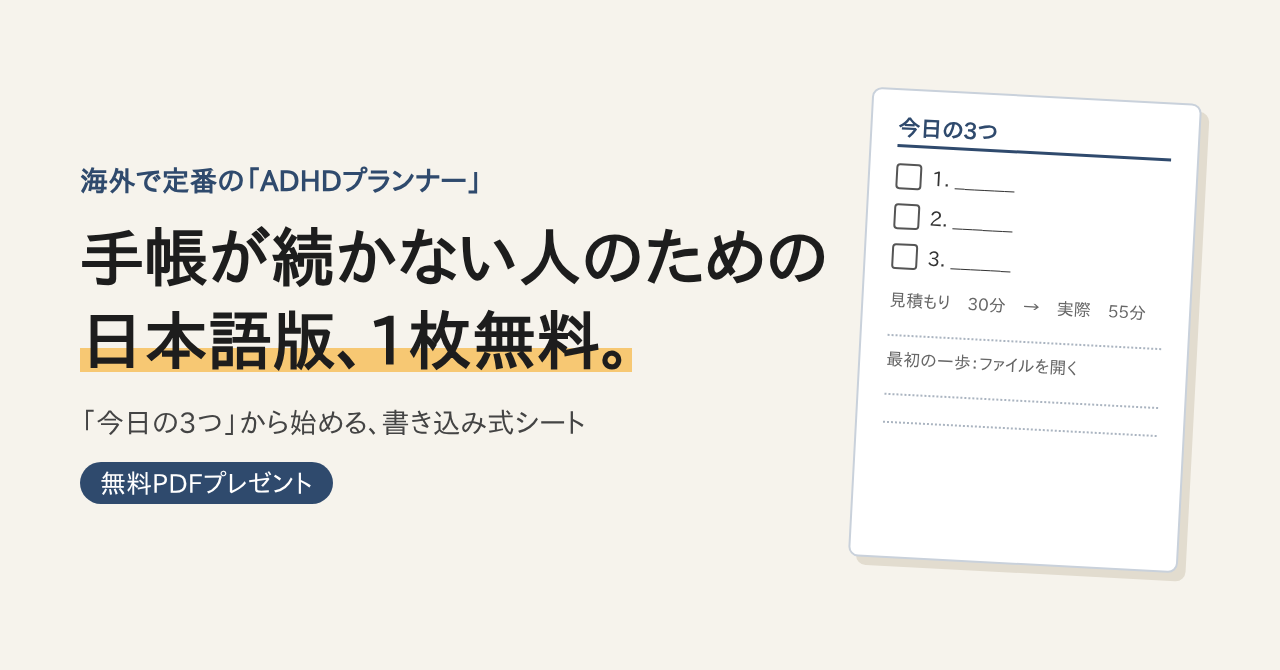
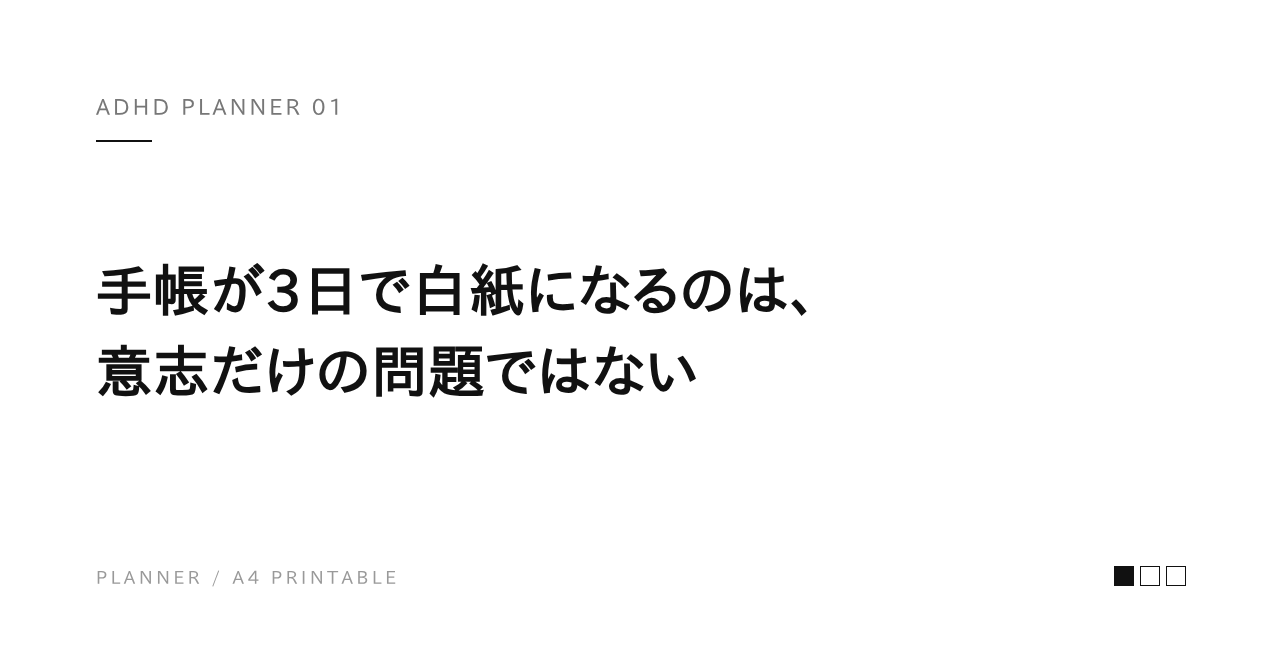
Rewrite ADHD planner articles in natural voice and simplify header images
Claude-Session: https://claude.ai/code/session_013nuac3asr5XygrkyoZzcZX

diff --git a/adhd/01_free/無料記事_本文.md b/adhd/01_free/無料記事_本文.md
@@ -1,70 +1,55 @@
 # タイトル
-海外で定番の「ADHDプランナー」とは？　日本語版の「今日のページ」を1枚プレゼントします
+手帳が3日で白紙になるのは、意志だけの問題ではない｜海外の「ADHDプランナー」の仕組みと、日本語版の1ページ
 
 # ハッシュタグ
 #ADHD #大人のADHD #発達障害 #グレーゾーン #手帳 #タスク管理 #先延ばし
 
 ---
 
-「今日こそやろうと思っていたのに、気づいたら夜だった」
-「やることが多すぎて、何から手をつければいいか分からない」
-「普通の手帳を買っても、3日で白紙になる」
+新しい手帳を買った日は、少しだけ未来の自分に期待している。
 
-こんな悩みに向けて、海外では「ADHDプランナー」と呼ばれる手帳が、ひとつのジャンルとして定着しています。アメリカの個人向け通販サイト「Etsy（エッツィー）」では、印刷して使うADHDプランナーが数多く出品され、「ベストセラー」の表示が付いたものも珍しくありません。
+1日目は丁寧に書く。2日目も書く。3日目の夜に「今日は疲れたから明日まとめて」と閉じて、そのまま次に開くのは、だいたい2か月後だ。白いページを見て、買った日の自分に少し申し訳なくなる。
 
-一方、日本語で同じように使えるものは、探してもほとんど見つかりません。そこで、海外のADHDプランナーによくある仕組みを、日本の暮らしに合わせて日本語のシートにしました。この記事では、その考え方と、お試し用の1枚を無料で配布します。
+これを何度か繰り返すと、「自分は続かない人間なんだ」という結論に落ち着く。けれど、手帳が続かない理由をもう少し細かく見ると、意志の弱さとは別のところに原因があることが多い。
 
-※ADHDプランナーは、予定や作業を整理するための道具です。医療的な診断や治療の代わりにはなりません。
+## 手帳が止まる、3つの地点
 
-## 普通の手帳と何が違うのか
+ひとつめは、書くことが多すぎる地点。普通の手帳は、予定もやることもメモも、全部を書き込める作りになっている。自由度が高いぶん、毎回「何をどこに書くか」を決めなければならない。この小さな判断の積み重ねが、思った以上に重い。疲れた夜に手帳が開けないのは、書く内容ではなく、この判断のコストを払う余力が残っていないからだ。
 
-海外のADHDプランナーを見比べると、共通する工夫がいくつかあります。
+ふたつめは、予定と現実がずれた地点。朝に立てた予定は、昼にはもう崩れている。30分のつもりの作業が1時間半かかり、その後ろが全部押す。心理学では「計画錯誤」と呼ばれる現象で、人は作業にかかる時間を、過去に同じ作業をしたときより短く見積もる傾向がある。崩れた予定が書かれたページは、見るたびに小さな失敗を突きつけてくる。開かなくなるのは自然な反応だ。
 
-### 1. 頭の中を全部書き出すページがある
-「ブレインダンプ」と呼ばれるページです。気になっていることを、順番も大きさも気にせず書き出します。覚えておくための頭の負担を、紙に移すのが目的です。
+みっつめは、最初の一歩が大きすぎる地点。「部屋を片付ける」「書類を出す」と書いた時点で、頭の中ではその作業の全体が一気に立ち上がる。どこから手をつけるかが見えない作業ほど、人は後回しにする。
 
-### 2. 「今日やること」を3つに絞る
-やることリストが長すぎると、見ただけで疲れてしまいます。そこで「これができたら今日は合格」という3つだけを選びます。
+この3つは、時間の感覚がずれやすい人や、やることが多いと固まってしまう人ほど、強く効いてくる。
 
-### 3. 見積もりと実際の時間を並べて書く
-「30分で終わるはずが2時間」というズレは、誰にでも起こります。予定の横に「実際にかかった時間」を書く欄があり、自分のズレ方を知る手がかりになります。
+## 海外の「ADHDプランナー」がやっていること
 
-### 4. 最初の一歩を、とても小さく書く
-「レポートを書く」ではなく「ファイルを開く」。2分でできるくらいまで小さくした一歩を書いておくと、取りかかりのハードルが下がります。
+アメリカの個人向け通販サイト「Etsy（エッツィー）」には、「ADHDプランナー」という名前で売られている手帳のテンプレートが大量にある。印刷して使うPDFで、作り手も価格もさまざまだが、中身を見比べると、上の3つの地点への対処がだいたい共通している。
 
-### 5. ごほうびを先に決める
-作業の後の楽しみを先に書いておきます。海外では「ドーパミンメニュー」という言葉で、気分が上がることの一覧を作る方法も広まっています。
+書く場所と量が、あらかじめ決まっている。「今日やること」は3つまで、と枠そのものが小さい。判断を減らすための設計だ。
 
-## 無料配布：「今日のページ」1枚
+予定の横に、実際にかかった時間を書く欄がある。予定が崩れたことを失敗として残すのではなく、「自分はどのくらいずれるのか」を測るためのデータとして扱う。
 
-上の工夫のうち、2〜5をA4用紙1枚にまとめたのが「今日のページ」です。
+やることの横に、「最初の一歩」を書く欄がある。「書類を出す」ではなく「封筒を机に出す」。2分でできるところまで小さくした行動を、先に決めておく。
+
+どれも特別な発明ではない。ただ、普通の手帳が「何でも書ける」ことを売りにしているのに対して、こちらは「書くことを減らす」方向に作られている。その違いが大きい。
+
+## 日本語版の1ページ
+
+日本語で同じように使えるものが見つからなかったので、この仕組みを日本の生活に合わせて、A4用紙1枚の「今日のページ」にした。
 
 （ここにPDF「お試し_今日のページ.pdf」を添付）
 
-**使い方**
+左側に「今日の3つ」の欄がある。それぞれに見積もりの時間と、実際にかかった時間、それから最初の一歩を書く。右側は7時から23時までの時間割で、3つの作業をどこに置くかを決める。下には「明日に回すこと」を書く欄があって、ここに書いたものはその日のうちは忘れていいことにしている。
 
-1. 朝か前の晩に、「今日の3つ」を書きます。
-2. それぞれに「見積もり（分）」と「最初の一歩」を書きます。
-3. 右側の時間割に、3つの作業を置く時間を決めます。
-4. 終わったら「実際（分）」を書き、済のチェックを入れます。
-5. 寝る前に、できたことを1つだけ「ひとことふりかえり」に書きます。
+全部の欄を埋める必要はない。今日の3つのうち、1つだけ書いて終わりの日があってもいい。この1枚は、毎日きちんと書く人のためではなく、書けた日に少し頭が軽くなるためのものだ。
 
-全部の欄を埋める必要はありません。「今日の3つ」だけでも十分です。まずは3日、試してみてください。
+なお、これは予定と作業を整理するための道具で、医療的な診断や治療の代わりにはならない。
 
-## もっと使いたい方へ
+## 残りのページについて
 
-「今日のページ」を含む全9ページのセットも用意しています。
+この「今日のページ」は、全9ページあるプランナーの1枚を切り出したもの。残りのページには、頭の中を全部書き出すページ、大きな作業を小さく分けるシート、自分の見積もりが何倍ずれるかを測るシートなどが入っている。手が止まった作業をAIに小分けしてもらうための指示文も付けた。
 
-- ブレインダンプ
-- タスク分解シート（大きな作業を小さく分ける）
-- 週間タイムブロック
-- 見積もり練習シート（自分のズレの倍率を出す）
-- ごほうびメニュー
-- 月間習慣トラッカー
-- 週のふりかえり
-
-さらに、手が止まった作業をAIに小さく分けてもらうための指示文も付けています。
+1枚で足りる人は、この1枚だけで十分だと思う。もう少し使ってみたいと思ったら、こちらに置いてある。
 
 （ここに有料記事へのリンク）
-
-この1枚が、「何もできなかった日」を少しでも減らす助けになればうれしいです。
